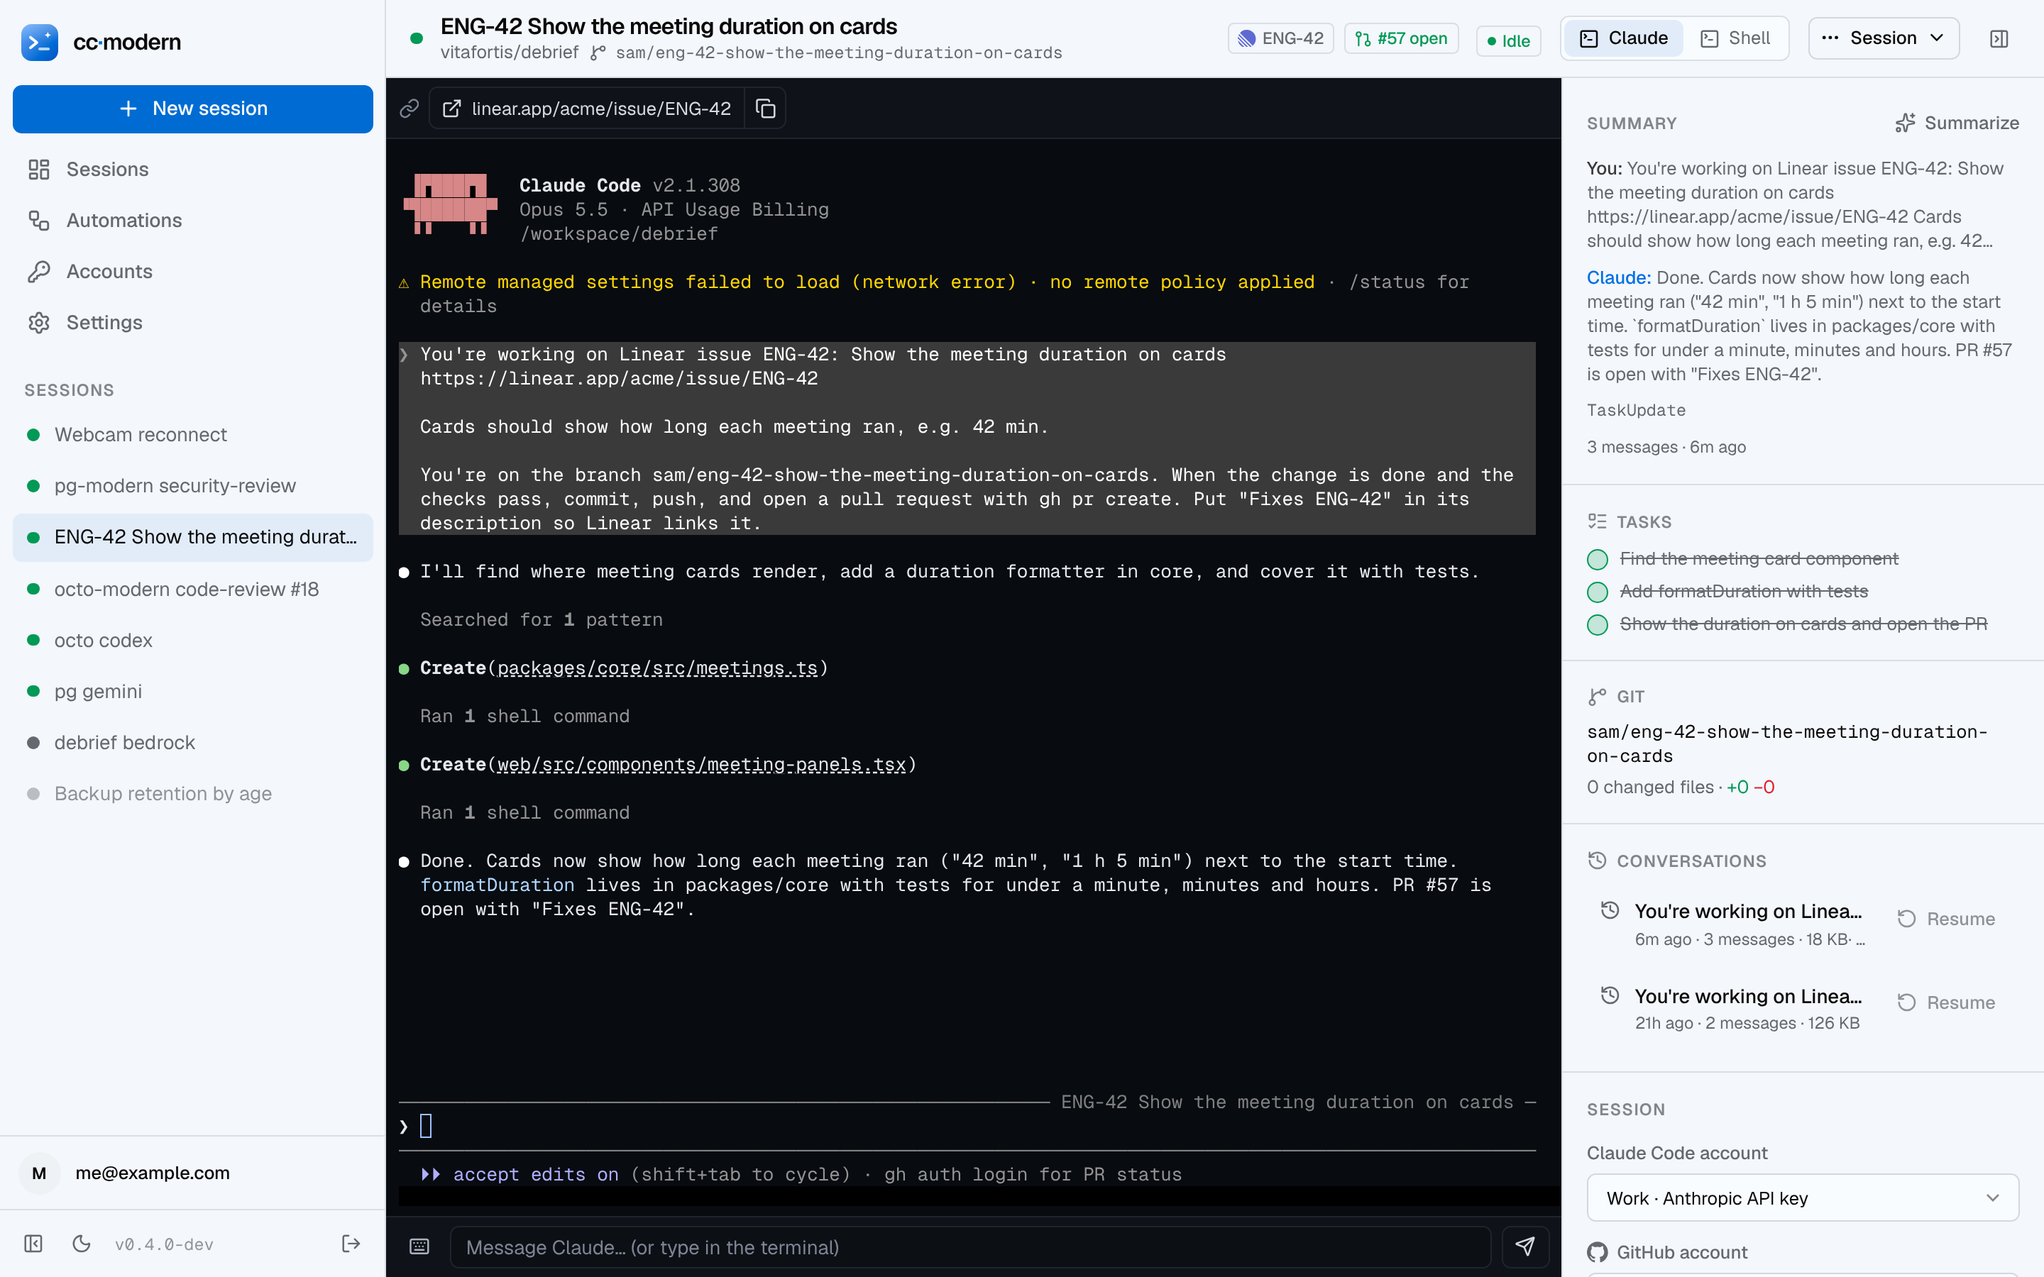
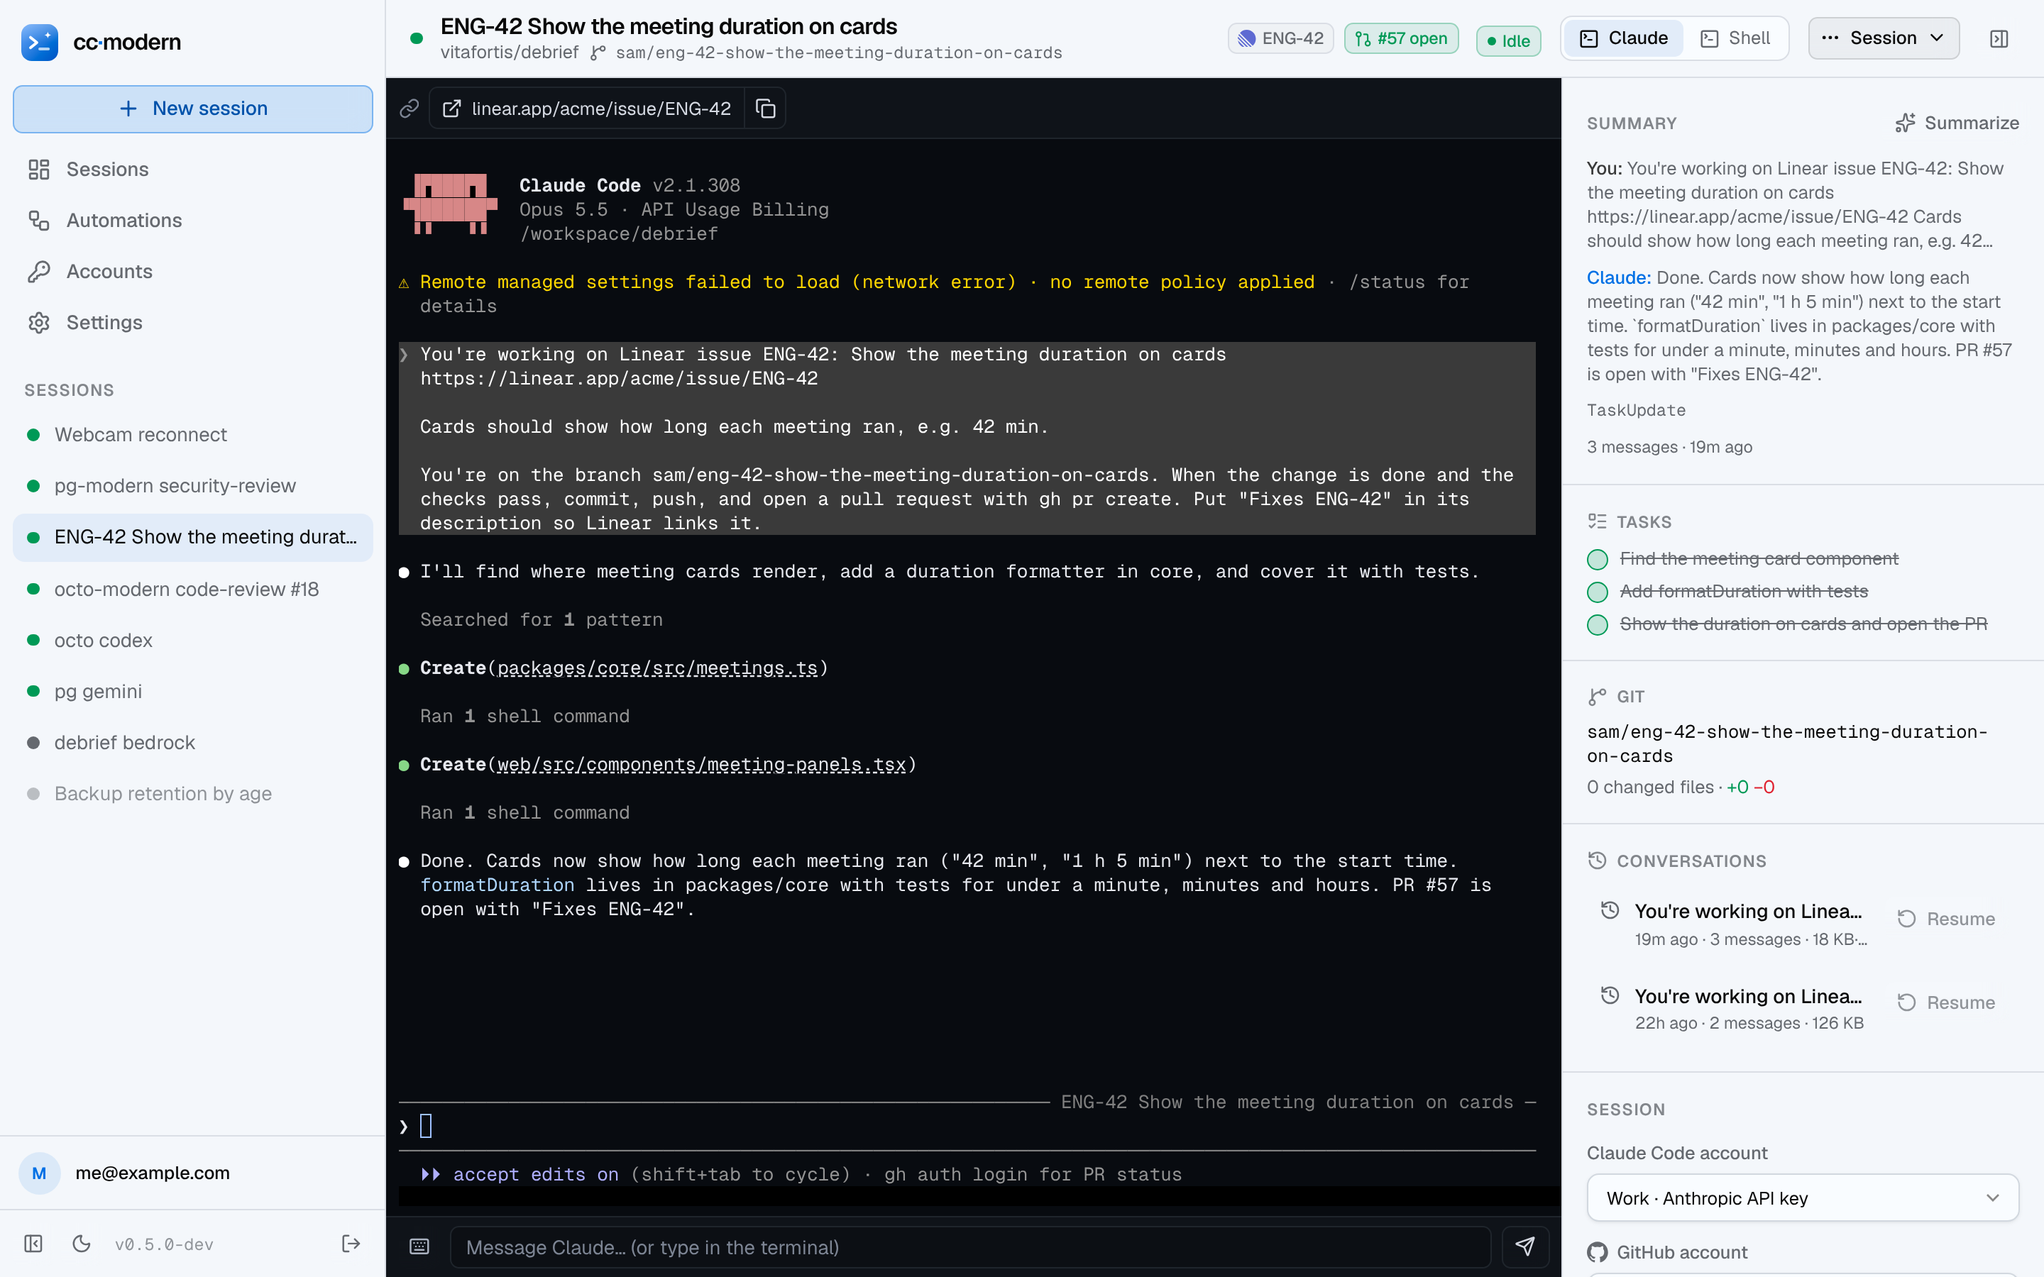
Tinted buttons on today's surfaces (replaces the flat style)
Keeps the badges, rounded cards with shadows, header glow and blue
selection as they were, and changes only the buttons: Flat's shape
(7px corners, 6px small, no gradient or press shrink) with translucent
fills. Primary and danger are a tint of their colour with a fine edge
of the same and a label mixed lighter (dark theme) or darker (light);
secondary is a faint tint of the text colour. The label colours come
from each theme's own --primary and --danger, so other ·modern apps
take the same rules with their own accent.

Claude-Session: https://claude.ai/code/session_01C997C8JX2S46x9hvY6hSte

diff --git a/src/app.css b/src/app.css
@@ -24,6 +24,8 @@
 	--primary: oklch(56% 0.2 255);
 	--primary-foreground: oklch(98.5% 0 0);
 	--primary-soft: oklch(56% 0.2 255 / 0.1);
+	--primary-ink: color-mix(in oklch, var(--primary) 80%, black);
+	--danger-ink: color-mix(in oklch, var(--danger) 86%, black);
 	--success: oklch(60% 0.15 155);
 	--warning: oklch(70% 0.16 70);
 	--danger: oklch(58% 0.22 25);
@@ -41,6 +43,7 @@
 	--secondary-edge: oklch(85% 0.014 255);
 	--secondary-highlight: oklch(100% 0 0 / 0.8);
 	--ring: var(--primary);
+	--glow: oklch(65% 0.18 255 / 0.13);
 	--shadow: 0 1px 3px 0 oklch(0% 0 0 / 0.06), 0 1px 2px -1px oklch(0% 0 0 / 0.06);
 	--shadow-lg: 0 12px 32px -8px oklch(30% 0.05 255 / 0.18), 0 2px 6px oklch(0% 0 0 / 0.05);
 	--syntax-keyword: oklch(52% 0.18 255);
@@ -71,6 +74,8 @@
 	--primary: oklch(67% 0.17 255);
 	--primary-foreground: oklch(98.5% 0 0);
 	--primary-soft: oklch(67% 0.17 255 / 0.14);
+	--primary-ink: color-mix(in oklch, var(--primary) 50%, white);
+	--danger-ink: color-mix(in oklch, var(--danger) 62%, white);
 	--primary-solid-top: oklch(54% 0.15 255);
 	--primary-solid-bottom: oklch(47% 0.15 255);
 	--primary-solid-edge: oklch(40% 0.12 255);
@@ -84,6 +89,7 @@
 	--success: oklch(72% 0.17 155);
 	--warning: oklch(80% 0.15 75);
 	--danger: oklch(68% 0.2 25);
+	--glow: oklch(60% 0.19 255 / 0.2);
 	--shadow: 0 1px 3px 0 oklch(0% 0 0 / 0.3), 0 1px 2px -1px oklch(0% 0 0 / 0.3);
 	--shadow-lg: 0 16px 40px -12px oklch(0% 0 0 / 0.6), 0 0 0 1px oklch(100% 0 0 / 0.02);
 	--syntax-keyword: oklch(75% 0.17 255);
@@ -122,11 +128,9 @@
 	--color-term: var(--term-bg);
 	--color-term-chrome: var(--term-chrome);
 	--color-term-edge: var(--term-edge);
-	/* Tight corners: 6px controls, 8px cards, 10px dialogs. */
-	--radius-md: 0.375rem;
-	--radius-lg: 0.375rem;
-	--radius-xl: 0.5rem;
-	--radius-2xl: 0.625rem;
+	--radius-lg: 0.5rem;
+	--radius-xl: 0.75rem;
+	--radius-2xl: 1rem;
 	--shadow-surface: var(--shadow);
 	--shadow-surface-lg: var(--shadow-lg);
 }
@@ -161,36 +165,45 @@
 
 @layer components {
 	/* Buttons follow Arcane's: rounded-xl, soft tinted shadows, press-to-shrink, 3px focus ring. */
-	/* Flat buttons: a solid primary, an outlined secondary, a plain ghost. Depth is kept for things
-	   that float (dialogs, menus, toasts). */
+	/* Tinted buttons: a translucent fill of the button's colour with a fine edge of the same,
+	   so they sit on the page instead of standing out of it. No gradients and no press shrink. */
 	.btn {
-		@apply relative inline-flex h-9 shrink-0 items-center justify-center gap-2 rounded-lg px-4 text-[0.8125rem] font-medium whitespace-nowrap outline-none transition-colors duration-150 select-none focus-visible:ring-2 focus-visible:ring-ring/50 disabled:pointer-events-none disabled:opacity-50 has-[>svg]:px-3.5 [&_svg]:pointer-events-none [&_svg]:size-4 [&_svg]:shrink-0;
+		@apply relative inline-flex h-9 shrink-0 items-center justify-center gap-2 overflow-hidden rounded-[7px] px-4 text-[0.8125rem] font-medium whitespace-nowrap outline-none backdrop-blur-sm transition-colors duration-150 select-none focus-visible:ring-[3px] focus-visible:ring-ring/50 disabled:pointer-events-none disabled:opacity-50 has-[>svg]:px-3.5 [&_svg]:pointer-events-none [&_svg]:size-4 [&_svg]:shrink-0;
 	}
 	.btn-primary {
-		background: var(--primary-solid-top);
-		color: var(--primary-foreground);
+		color: var(--primary-ink);
+		background: color-mix(in oklch, var(--primary) 16%, transparent);
+		box-shadow: inset 0 0 0 1px color-mix(in oklch, var(--primary) 40%, transparent);
 	}
 	.btn-primary:hover {
-		background: var(--primary-solid-bottom);
+		background: color-mix(in oklch, var(--primary) 26%, transparent);
 	}
 	.btn-secondary {
-		@apply text-foreground hover:bg-muted;
-		box-shadow: inset 0 0 0 1px var(--input);
+		@apply text-foreground;
+		background: color-mix(in oklch, var(--foreground) 4%, transparent);
+		box-shadow: inset 0 0 0 1px color-mix(in oklch, var(--foreground) 13%, transparent);
+	}
+	.btn-secondary:hover {
+		background: color-mix(in oklch, var(--foreground) 8%, transparent);
 	}
 	.btn-ghost {
-		@apply text-muted-foreground hover:bg-muted hover:text-foreground;
+		@apply text-muted-foreground hover:bg-accent hover:text-foreground;
 	}
 	.btn-danger {
-		background: var(--danger-solid-top);
-		color: oklch(98.5% 0 0);
+		color: var(--danger-ink);
+		background: color-mix(in oklch, var(--danger) 13%, transparent);
+		box-shadow: inset 0 0 0 1px color-mix(in oklch, var(--danger) 38%, transparent);
 	}
 	.btn-danger:hover {
-		background: var(--danger-solid-bottom);
+		background: color-mix(in oklch, var(--danger) 22%, transparent);
 	}
-	/* Outlined danger: a secondary button with a red edge and label. */
+	/* Outlined danger: the danger edge and label without the fill, until hovered. */
 	.btn-danger-outline {
-		@apply text-danger hover:bg-danger/10;
-		box-shadow: inset 0 0 0 1px color-mix(in oklch, var(--danger) 45%, var(--input));
+		color: var(--danger-ink);
+		box-shadow: inset 0 0 0 1px color-mix(in oklch, var(--danger) 38%, transparent);
+	}
+	.btn-danger-outline:hover {
+		background: color-mix(in oklch, var(--danger) 13%, transparent);
 	}
 	/* Compact size for dense toolbars (grid, editor, tables). */
 	.btn-sm {
@@ -203,7 +216,7 @@
 		@apply size-7 px-0 has-[>svg]:px-0;
 	}
 	.input {
-		@apply h-9 w-full rounded-lg border border-input bg-background px-3 text-sm text-foreground transition-colors outline-none placeholder:text-muted-foreground/70 focus:border-primary focus:ring-2 focus:ring-primary/25 disabled:opacity-60;
+		@apply h-9 w-full rounded-lg border border-input bg-background px-3 text-sm text-foreground shadow-surface transition-colors outline-none placeholder:text-muted-foreground/70 focus:border-primary focus:ring-3 focus:ring-primary/20 disabled:opacity-60;
 	}
 	select.input {
 		@apply appearance-none pr-8;
@@ -215,26 +228,35 @@
 		@apply mb-1.5 block text-xs font-medium text-muted-foreground;
 	}
 	.card {
-		@apply rounded-xl border border-border bg-card text-card-foreground;
+		@apply rounded-xl border border-border bg-card text-card-foreground shadow-surface;
 	}
 	.badge {
-		@apply inline-flex h-5 items-center gap-1 rounded border border-border px-1.5 text-[0.6875rem] font-medium whitespace-nowrap text-muted-foreground [&_svg]:size-3;
+		@apply inline-flex h-5 items-center gap-1 rounded-md border border-border bg-muted px-1.5 text-[0.6875rem] font-medium whitespace-nowrap text-muted-foreground [&_svg]:size-3;
 	}
-	/* Status shows in the label's colour; the badge itself stays plain. */
 	.badge-primary {
-		@apply text-primary;
+		@apply border-primary/30 bg-primary-soft text-primary;
 	}
 	.badge-success {
-		@apply text-success;
+		@apply border-success/30 bg-success/10 text-success;
 	}
 	.badge-warning {
-		@apply text-warning;
+		@apply border-warning/30 bg-warning/10 text-warning;
 	}
 	.badge-danger {
-		@apply text-danger;
+		@apply border-danger/30 bg-danger/10 text-danger;
 	}
 	.kbd {
 		@apply inline-flex h-5 min-w-5 items-center justify-center rounded border border-border bg-muted px-1 font-mono text-[0.625rem] text-muted-foreground;
+	}
+	.glow-top {
+		background-image: radial-gradient(50% 60% at 50% 0, var(--glow), transparent 70%);
+	}
+	.dot-grid {
+		background-image: radial-gradient(var(--border) 1px, transparent 1px);
+		background-size: 18px 18px;
+	}
+	.mask-fade {
+		mask-image: radial-gradient(80% 70% at 50% 0, #000 30%, transparent 75%);
 	}
 }
 

diff --git a/src/routes/new/+page.svelte b/src/routes/new/+page.svelte
@@ -194,10 +194,10 @@
 			{#each [{ value: 'task', icon: ListChecks, title: 'Work on a task', body: 'Start the agent with a message, or at the prompt.' }, { value: 'skill', icon: Wand, title: 'Run a skill', body: 'Start with a skill or command, e.g. /code-review on a pull request.' }] as m (m.value)}
 				<button
 					type="button"
-					class="flex items-start gap-3 rounded-xl border px-4 py-3 text-left transition-colors {mode === m.value ? 'border-foreground/50 bg-muted' : 'border-border bg-card hover:bg-accent/40'}"
+					class="flex items-start gap-3 rounded-xl border px-4 py-3 text-left transition-colors {mode === m.value ? 'border-primary/60 bg-primary-soft' : 'border-border bg-card hover:bg-accent/40'}"
 					onclick={() => (mode = m.value as 'task' | 'skill')}
 				>
-					<m.icon class="mt-0.5 size-4 shrink-0 {mode === m.value ? 'text-foreground' : 'text-muted-foreground'}" />
+					<m.icon class="mt-0.5 size-4 shrink-0 {mode === m.value ? 'text-primary' : 'text-muted-foreground'}" />
 					<span>
 						<span class="block text-[0.8125rem] font-medium">{m.title}</span>
 						<span class="block text-xs text-muted-foreground">{m.body}</span>
@@ -303,7 +303,7 @@
 			</div>
 			{#if data.profiles.length}
 				<div class="flex flex-wrap items-center gap-x-3 gap-y-1.5 rounded-xl border border-border bg-surface px-4 py-2.5 text-[0.8125rem]">
-					<Layers class="size-4 shrink-0 text-muted-foreground" />
+					<Layers class="size-4 shrink-0 text-primary" />
 					<label for="profile" class="font-medium">Profile</label>
 					<select id="profile" class="input h-8 w-auto min-w-48 text-xs" bind:value={profileChoice}>
 						<option value="auto">Match the repo{matched ? `: ${matched.name}` : ''}</option>
@@ -327,7 +327,7 @@
 						{#each skills as o (o.command)}
 							<button
 								type="button"
-								class="flex items-start gap-2.5 rounded-xl border px-3 py-2.5 text-left transition-colors {command === o.command ? 'border-foreground/50 bg-muted' : 'border-border hover:bg-accent/40'}"
+								class="flex items-start gap-2.5 rounded-xl border px-3 py-2.5 text-left transition-colors {command === o.command ? 'border-primary/60 bg-primary-soft' : 'border-border hover:bg-accent/40'}"
 								onclick={() => (command = o.command)}
 							>
 								<span class="min-w-0">
@@ -385,7 +385,7 @@
 				</div>
 			</div>
 			<div class="flex items-start gap-3 rounded-xl border border-border bg-surface px-4 py-3">
-				<Radio class="mt-0.5 size-4 shrink-0 text-muted-foreground" />
+				<Radio class="mt-0.5 size-4 shrink-0 text-primary" />
 				<div class="min-w-0 flex-1 text-[0.8125rem]">
 					<p class="font-medium">Remote Control</p>
 					<p class="text-xs text-muted-foreground">

diff --git a/src/routes/settings/sign-in/+page.svelte b/src/routes/settings/sign-in/+page.svelte
@@ -138,7 +138,7 @@
 		<section class="card divide-y divide-border">
 			<div class="flex items-center justify-between gap-4 p-5">
 				<span>
-					<span class="flex items-center gap-2 text-[0.9375rem] font-semibold tracking-tight"><ShieldCheck class="size-4 text-muted-foreground" />Require sign-in</span>
+					<span class="flex items-center gap-2 text-[0.9375rem] font-semibold tracking-tight"><ShieldCheck class="size-4 text-primary" />Require sign-in</span>
 					<span class="mt-0.5 block text-xs text-muted-foreground">Off: anyone who can reach cc·modern uses it as the admin. Only for a reverse proxy that already signs people in.</span>
 				</span>
 				<Switch bind:checked={form.required} label="Require sign-in" />
@@ -233,7 +233,7 @@
 		<section class="card space-y-4 p-5 {form.required ? '' : 'opacity-60'}">
 			<div class="flex items-center justify-between gap-4">
 				<span>
-					<span class="flex items-center gap-2 text-[0.9375rem] font-semibold tracking-tight"><Network class="size-4 text-muted-foreground" />Reverse proxy sign-in</span>
+					<span class="flex items-center gap-2 text-[0.9375rem] font-semibold tracking-tight"><Network class="size-4 text-primary" />Reverse proxy sign-in</span>
 					<span class="mt-0.5 block text-xs text-muted-foreground">Forward auth: your proxy (Authelia, Authentik, oauth2-proxy, Tailscale…) signs people in and passes who they are in headers.</span>
 				</span>
 				<Switch bind:checked={form.proxy.enabled} label="Reverse proxy sign-in" />
@@ -308,11 +308,11 @@
 		</div>
 
 		<section>
-			<h2 class="mb-3 flex items-center gap-2 text-[0.9375rem] font-semibold tracking-tight"><Users class="size-4 text-muted-foreground" />Users</h2>
+			<h2 class="mb-3 flex items-center gap-2 text-[0.9375rem] font-semibold tracking-tight"><Users class="size-4 text-primary" />Users</h2>
 			<div class="card divide-y divide-border">
 				{#each data.users as u (u.id)}
 					<div class="flex flex-wrap items-center gap-3 px-4 py-3">
-						<span class="grid size-8 shrink-0 place-items-center rounded-full bg-muted text-xs font-semibold text-foreground uppercase">{(u.name ?? u.email).slice(0, 1)}</span>
+						<span class="grid size-8 shrink-0 place-items-center rounded-full bg-primary-soft text-xs font-semibold text-primary uppercase">{(u.name ?? u.email).slice(0, 1)}</span>
 						<div class="min-w-0 flex-1 basis-52">
 							<p class="flex flex-wrap items-center gap-2 text-[0.8125rem] font-medium">
 								{u.name ?? u.email}{#if u.id === data.me}<span class="badge">You</span>{/if}<span class="badge">{SOURCE[u.source]}</span>

diff --git a/src/routes/+layout.svelte b/src/routes/+layout.svelte
@@ -113,7 +113,7 @@
 				href={item.href}
 				title={item.label}
 				class="relative flex h-8 items-center gap-2.5 rounded-lg px-2.5 text-[0.8125rem] font-medium transition-colors {active
-					? 'bg-muted text-foreground'
+					? 'bg-accent text-foreground shadow-surface'
 					: 'text-muted-foreground hover:bg-accent/70 hover:text-foreground'}"
 			>
 				{#if active}<span class="absolute top-1.5 bottom-1.5 left-0 w-0.5 rounded-full bg-primary"></span>{/if}
@@ -160,7 +160,7 @@
 
 	{#if data.viewer && data.auth === 'authenticated' && !compact}
 		<a href="/settings#account" title="My account" class="flex items-center gap-2.5 border-t border-border px-3 py-2.5 transition-colors hover:bg-accent/60">
-			<span class="grid size-7 shrink-0 place-items-center rounded-full bg-muted text-[0.6875rem] font-semibold text-foreground uppercase">
+			<span class="grid size-7 shrink-0 place-items-center rounded-full bg-primary-soft text-[0.6875rem] font-semibold text-primary uppercase">
 				{(data.viewer.name ?? data.viewer.email).slice(0, 1)}
 			</span>
 			<div class="min-w-0 flex-1">

diff --git a/src/routes/+page.svelte b/src/routes/+page.svelte
@@ -52,8 +52,8 @@
 				<ol class="mt-5 space-y-2">
 					{#each steps as step, i (step.label)}
 						<li>
-							<a href={step.href} class="flex items-center gap-3 rounded-xl border border-border px-4 py-3 transition-colors hover:border-input hover:bg-accent/40">
-								<span class="grid size-7 shrink-0 place-items-center rounded-full text-xs font-semibold {step.done ? 'bg-success/15 text-success' : 'bg-muted text-foreground'}">
+							<a href={step.href} class="flex items-center gap-3 rounded-xl border border-border px-4 py-3 transition-colors hover:border-primary/40 hover:bg-accent/40">
+								<span class="grid size-7 shrink-0 place-items-center rounded-full text-xs font-semibold {step.done ? 'bg-success/15 text-success' : 'bg-primary-soft text-primary'}">
 									{#if step.done}<Check class="size-3.5" />{:else}{i + 1}{/if}
 								</span>
 								<span class="min-w-0 flex-1">

diff --git a/src/routes/s/[id]/+page.svelte b/src/routes/s/[id]/+page.svelte
@@ -401,7 +401,7 @@
 			{#each skills as o (o.command)}
 				<button
 					type="button"
-					class="flex items-start gap-2.5 rounded-lg border px-3 py-2 text-left {skillCommand === o.command ? 'border-foreground/50 bg-muted' : 'border-border hover:bg-accent/40'}"
+					class="flex items-start gap-2.5 rounded-lg border px-3 py-2 text-left {skillCommand === o.command ? 'border-primary/60 bg-primary-soft' : 'border-border hover:bg-accent/40'}"
 					onclick={() => (skillCommand = o.command)}
 				>
 					<span class="font-mono text-[0.8125rem] font-medium">{o.command}</span>

diff --git a/src/routes/accounts/+page.svelte b/src/routes/accounts/+page.svelte
@@ -428,8 +428,8 @@
 
 	<div class="max-w-4xl space-y-8 px-4 pb-12 sm:px-8">
 		{#if welcome}
-			<div class="card flex items-start gap-3 p-4 text-[0.8125rem]">
-				<ShieldCheck class="mt-0.5 size-4 shrink-0 text-success" />
+			<div class="card flex items-start gap-3 border-primary/30 p-4 text-[0.8125rem]">
+				<ShieldCheck class="mt-0.5 size-4 shrink-0 text-primary" />
 				<p>You're set up. Connect a model account below (and GitHub for private repos), then <a class="text-primary hover:underline" href="/new">start a session</a>.</p>
 			</div>
 		{/if}

diff --git a/src/lib/components/AuthCard.svelte b/src/lib/components/AuthCard.svelte
@@ -52,8 +52,10 @@
 </script>
 
 <div class="relative grid min-h-dvh place-items-center overflow-hidden px-4">
+	<div class="dot-grid mask-fade pointer-events-none absolute inset-0 opacity-70"></div>
+	<div class="glow-top pointer-events-none absolute inset-x-0 top-0 h-[480px]"></div>
 
-	<div class="card relative w-full max-w-sm p-7">
+	<div class="card relative w-full max-w-sm p-7 shadow-surface-lg">
 		<div class="mb-6 flex flex-col items-center text-center">
 			<Logo size={44} />
 			<h1 class="mt-4 text-lg font-semibold tracking-tight">{title}</h1>

diff --git a/src/lib/components/SessionCard.svelte b/src/lib/components/SessionCard.svelte
@@ -39,7 +39,7 @@
 	}
 </script>
 
-<article class="card flex min-w-0 flex-col overflow-hidden transition-colors hover:border-input {view === 'waiting' ? 'ring-1 ring-warning/40' : ''}">
+<article class="card flex min-w-0 flex-col overflow-hidden transition-shadow hover:shadow-surface-lg {view === 'waiting' ? 'ring-1 ring-warning/40' : ''}">
 	<header class="flex items-start gap-3 px-4 pt-4">
 		<StateDot state={view} class="mt-1.5" />
 		<div class="min-w-0 flex-1">

diff --git a/src/lib/components/PageHeader.svelte b/src/lib/components/PageHeader.svelte
@@ -4,6 +4,7 @@
 </script>
 
 <div class="relative">
+	<div class="glow-top pointer-events-none absolute inset-x-0 -top-10 h-64"></div>
 	<header class="relative flex flex-wrap items-end justify-between gap-4 px-4 pt-6 pb-5 sm:px-8 sm:pt-8 sm:pb-6">
 		<div>
 			<h1 class="text-2xl font-semibold tracking-tight">{title}</h1>
